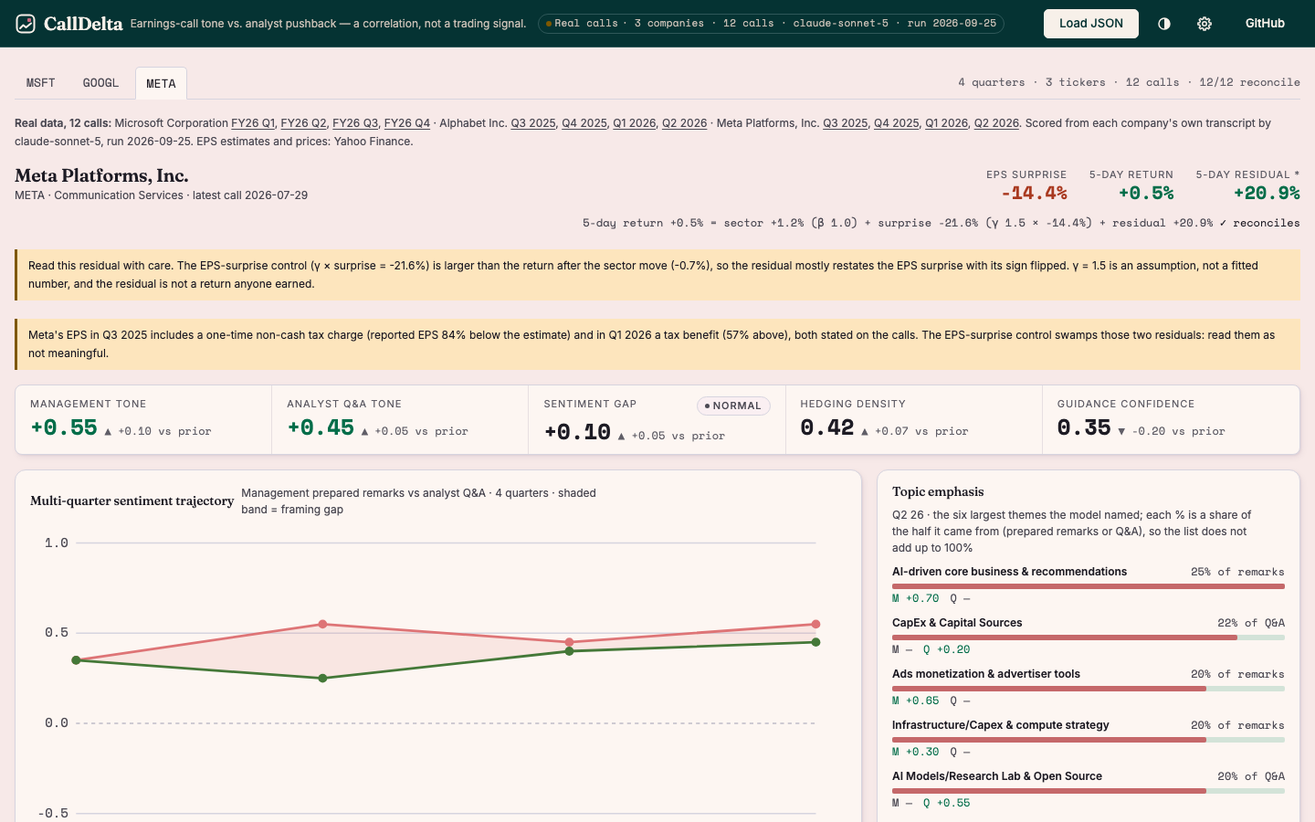
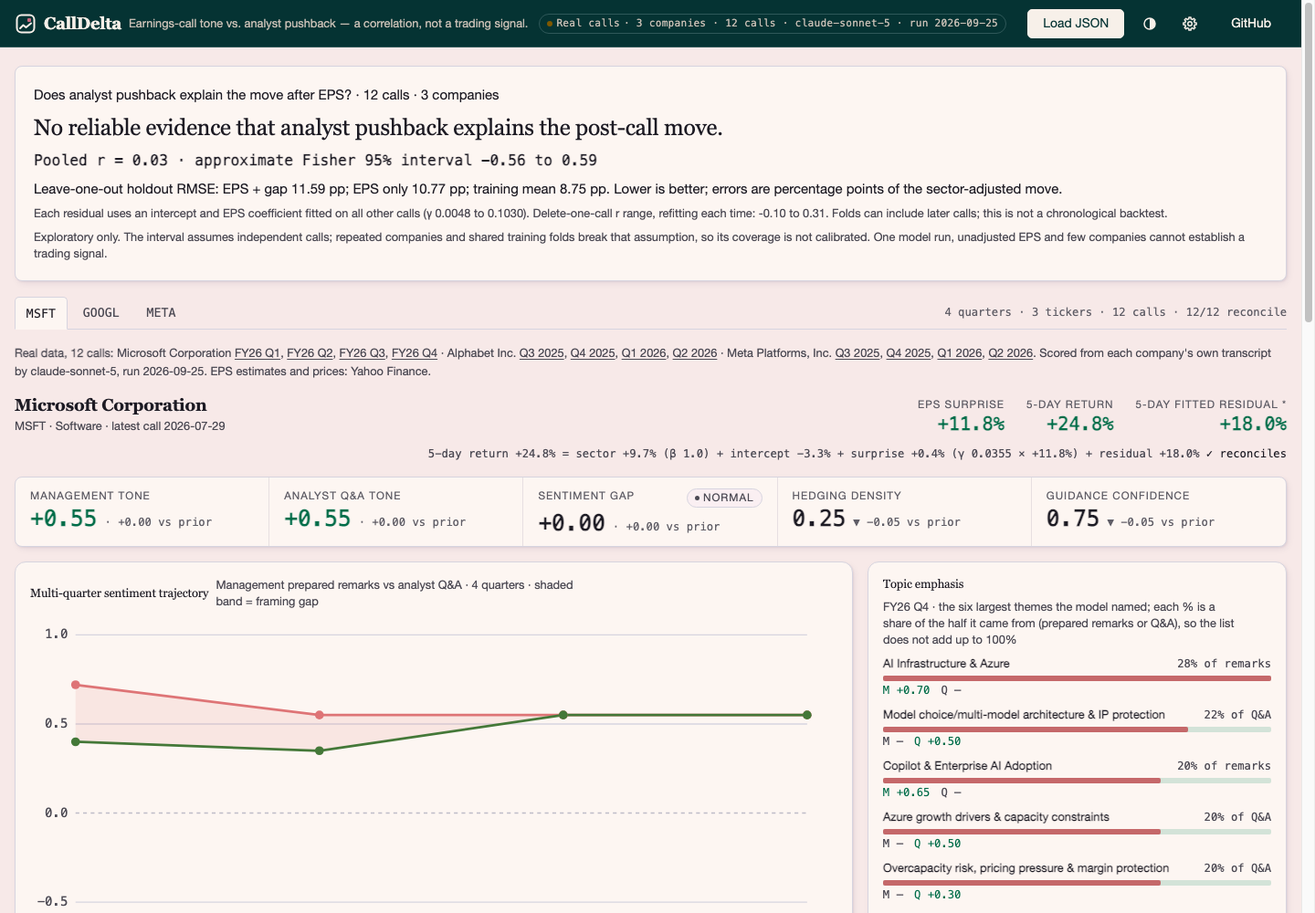
Fit the EPS control instead of a hand-picked 1.5x and lead with one honest verdict
The headline residual used a hand-picked 1.5 x EPS surprise. Each call's residual now comes from a
pooled least-squares EPS control (with an intercept) fitted on the other calls, and the first
screen states the pooled result before any company tab: on these 12 calls, r = 0.03 with an
approximate 95% interval of -0.56 to 0.59, and EPS + tone gap predicts held-out moves worse than
EPS alone or the training mean. No reliable evidence that analyst pushback explains the move.
The reconciliation shows each call's fitted terms; the impossible-residual warning stays.
Analysis checks 11/11 (seen failing first), web checks 30/30, existing suite 97 passed; an
independent NumPy calculation matches every fit, the RMSE baselines and the interval.

diff --git a/docs/app.js b/docs/app.js
@@ -4,6 +4,7 @@
 (() => {
 'use strict';
 const DEMO = window.CALLDELTA_DEMO, REAL = window.CALLDELTA_REAL, META = window.CALLDELTA_REAL_META;
+const A = window.CALLDELTA_ANALYSIS;
 const SVG_TAGS = new Set(['svg', 'rect', 'line', 'text', 'defs', 'pattern', 'path', 'g', 'title', 'circle', 'polyline', 'polygon']);
 const $ = (s, r = document) => r.querySelector(s);
 const h = (tag, attrs = {}, ...kids) => { const el = SVG_TAGS.has(tag) ? document.createElementNS('http://www.w3.org/2000/svg', tag) : document.createElement(tag); for (const [k, v] of Object.entries(attrs)) { if (v === null || v === undefined || v === false) continue; if (k === 'class') el.setAttribute('class', v); else if (k === 'html') el.innerHTML = v; else if (k.startsWith('on')) el.addEventListener(k.slice(2), v); else el.setAttribute(k, v === true ? '' : v); } for (const kid of kids.flat(Infinity)) { if (kid === null || kid === undefined || kid === false) continue; el.append(kid.nodeType ? kid : document.createTextNode(String(kid))); } return el; };
@@ -18,7 +19,7 @@ function validate(obj) { // same rules the old React dashboard applied, plus num
     for (const f of REQ_T) if (!(f in c)) return `${t}: missing field "${f}"`;
     if (!Array.isArray(c.quarters) || !c.quarters.length) return `${t}: "quarters" must be a non-empty array`;
     for (const [i, q] of c.quarters.entries()) { for (const f of REQ_Q) if (!(f in q)) return `${t} quarter ${i}: missing "${f}"`; for (const f of REQ_Q.slice(1)) if (typeof q[f] !== 'number' || !Number.isFinite(q[f])) return `${t} quarter ${i}: "${f}" must be a finite number`; if (q.mgmt < -1 || q.mgmt > 1 || q.qa < -1 || q.qa > 1) return `${t} quarter ${i}: tone must be within -1..1`;
-      if ('sector_5d' in q && (typeof q.sector_5d !== 'number' || !Number.isFinite(q.sector_5d))) return `${t} quarter ${i}: "sector_5d" must be a finite number when present`; }
+      for (const f of ['sector_5d', 'alpha', 'gamma']) if (f in q && (typeof q[f] !== 'number' || !Number.isFinite(q[f]))) return `${t} quarter ${i}: "${f}" must be a finite number when present`; }
     for (const f of ['beta', 'gamma']) if (f in c && (typeof c[f] !== 'number' || !Number.isFinite(c[f]))) return `${t}: "${f}" must be a finite number when present`;
     if (!Array.isArray(c.topics)) return `${t}: "topics" must be an array`; if (!Array.isArray(c.extracts)) return `${t}: "extracts" must be an array`;
     // every topic and extract is checked too: a topic with only a name used to pass and then broke the page while drawing
@@ -76,8 +77,8 @@ function provenance() {
 function pearson(xs, ys) { const n = xs.length; if (n < 3) return null; const mx = xs.reduce((a, b) => a + b, 0) / n, my = ys.reduce((a, b) => a + b, 0) / n; let sxy = 0, sxx = 0, syy = 0; for (let i = 0; i < n; i++) { sxy += (xs[i] - mx) * (ys[i] - my); sxx += (xs[i] - mx) ** 2; syy += (ys[i] - my) ** 2; } return sxx && syy ? sxy / Math.sqrt(sxx * syy) : null; }
 
 // The residual is the file's number; the page re-derives it from the file's own parts so a reader can check it:
-// residual = 5-day return − β × sector 5-day return − γ × EPS surprise (src/prices.py residual_return). Values are fractions;
-// a difference within 0.05 percentage points counts as reconciled. Without sector_5d, β and γ the residual is not checkable.
+// Fitted residual = 5-day return − β × sector return − α − γ × EPS surprise; old files omit α.
+// A difference within 0.05 percentage points counts as reconciled. Missing components never count as a pass.
 function recSummary(data, tickers, calls) {
   const recs = tickers.flatMap(t => data[t].quarters.map(q => reconcile(data[t], q))), checkable = recs.filter(r => r.checkable), passing = checkable.filter(r => r.ok).length;
   const text = checkable.length === 0 ? `0/${calls} checkable` : checkable.length === calls ? `${passing}/${calls} reconcile` : `${passing}/${checkable.length} reconcile · ${calls - checkable.length} not checkable`;
@@ -85,15 +86,25 @@ function recSummary(data, tickers, calls) {
 }
 function reconcile(c, q) {
   const num = v => typeof v === 'number' && Number.isFinite(v);
-  const missing = [!num(q.sector_5d) && 'sector return', !num(c.beta) && 'β', !num(c.gamma) && 'γ'].filter(Boolean);
+  const gamma = q.gamma ?? c.gamma, alpha = q.alpha ?? 0;
+  const missing = [!num(q.sector_5d) && 'sector return', !num(c.beta) && 'β', !num(gamma) && 'γ'].filter(Boolean);
   if (missing.length) return { checkable: false, missing };
-  const sectorPart = c.beta * q.sector_5d, surprisePart = c.gamma * q.eps_surprise, off = (q.ret_5d - sectorPart - surprisePart) - q.residual_5d;
-  return { checkable: true, ok: Math.abs(off) <= 0.0005, off, sectorPart, surprisePart, beta: c.beta, gamma: c.gamma };
+  const sectorPart = c.beta * q.sector_5d, surprisePart = gamma * q.eps_surprise, off = (q.ret_5d - sectorPart - alpha - surprisePart) - q.residual_5d;
+  return { checkable: true, ok: Math.abs(off) <= 0.0005, off, sectorPart, surprisePart, beta: c.beta, gamma, alpha };
 }
-// The EPS-surprise control (γ × surprise) against what it is taken from: the 5-day return after the sector move. γ is a
-// hand-picked constant, so when the control is the larger of the two the residual mostly restates the EPS surprise with
-// its sign flipped (and can pass ±100%, which no return can). The page says so wherever that is the case.
+// A fitted control can still dominate the sector-adjusted move. Warn separately for values beyond ±100%.
 function controlDominates(c, q) { const r = reconcile(c, q); return r.checkable && Math.abs(r.surprisePart) > Math.abs(q.ret_5d - r.sectorPart); }
+function analysisCard(result) {
+  const s = result.summary, f = x => x === null ? 'n/a' : x.toFixed(2), range = xs => xs ? xs.map(f).join(' to ') : 'n/a', error = x => `${(x * 100).toFixed(2)} pp`;
+  if (!s) return h('section', { class: 'card analysis', 'aria-label': 'Pooled verdict' }, h('h2', {}, 'Fitted analysis unavailable'), h('p', {}, result.reason), h('p', { class: 'hint' }, 'The panels below show the file’s original residuals, not fitted results. No verdict is inferred from them.'));
+  return h('section', { class: 'card analysis', 'aria-label': 'Pooled verdict' },
+    h('div', { class: 'lbl' }, `Does analyst pushback explain the move after EPS? · ${s.n} calls · ${s.companies} companies`),
+    h('h2', {}, A.verdict(s)),
+    h('p', { class: 'analysis-result' }, `Pooled r = ${f(s.r)} · approximate Fisher 95% interval ${range(s.ci)}`),
+    h('p', {}, `Leave-one-out holdout RMSE: EPS + gap ${s.rmse_gap === null ? 'unavailable (singular fit)' : error(s.rmse_gap)}; EPS only ${error(s.rmse_eps)}; training mean ${error(s.rmse_mean)}. Lower is better; errors are percentage points of the sector-adjusted move.`),
+    h('p', { class: 'hint' }, `Each residual uses an intercept and EPS coefficient fitted on all other calls (γ ${s.gamma_range.map(x => x.toFixed(4)).join(' to ')}). Delete-one-call r range, refitting each time: ${range(s.loo_range)}. Folds can include later calls; this is not a chronological backtest.`),
+    h('p', { class: 'hint' }, 'Exploratory only. The interval assumes independent calls; repeated companies and shared training folds break that assumption, so its coverage is not calibrated. One model run, unadjusted EPS and few companies cannot establish a trading signal.'));
+}
 // A topic's weight is its share of the half of the call it was named in: the model gives shares that add up to 1 within
 // the prepared remarks and, separately, within the Q&A (src/schema.py Topic.weight). The export lists the six largest
 // from both halves together, so the percentages on the page are not shares of the whole call and do not add up to 100%.
@@ -157,7 +168,7 @@ function roving(e) {
 }
 function renderPage() {
   const main = $('#main'); main.innerHTML = '';
-  const data = S.data, tickers = Object.keys(data); if (!data[S.ticker]) S.ticker = tickers[0];
+  const result = A.analyze(S.data), data = result.data, tickers = Object.keys(data); if (!data[S.ticker]) S.ticker = tickers[0];
   const c = data[S.ticker], qs = c.quarters, cur = qs[qs.length - 1], prev = qs[qs.length - 2] || cur;
   const calls = tickers.reduce((a, t) => a + data[t].quarters.length, 0);
   $('#pill-short').textContent = S.custom ? 'Your file' : 'Real calls';
@@ -165,17 +176,19 @@ function renderPage() {
   $('#reset').hidden = !S.custom;
   // the address always names the company on screen, so a reload or a shared link opens the same one
   if (fromHash() !== S.ticker) history.replaceState(null, '', '#' + encodeURIComponent(S.ticker));
+  main.append(analysisCard(result));
   main.append(h('div', { class: 'ticker-tabs', role: 'tablist', 'aria-label': 'Companies' }, tickers.map(t => h('button', { role: 'tab', id: 'tab-' + t, 'aria-controls': 'ticker-panel', 'aria-selected': t === S.ticker ? 'true' : 'false', onclick: () => { if (t === S.ticker) return; S.ticker = t; history.pushState(null, '', '#' + encodeURIComponent(t)); render(); } }, t)), h('span', { class: 'meta' }, `${qs.length} ${qs.length === 1 ? 'quarter' : 'quarters'} · ${tickers.length} tickers · ${calls} calls · `, recSummary(data, tickers, calls))));
   if (!S.custom) main.append(provenance());
   const panel = h('div', { id: 'ticker-panel', role: 'tabpanel', 'aria-labelledby': 'tab-' + S.ticker }); main.append(panel);
   const gap = cur.mgmt - cur.qa, gapPrev = prev.mgmt - prev.qa, rec = reconcile(c, cur);
   panel.append(h('div', { class: 'company' }, h('div', {}, h('h1', {}, c.company), h('div', { class: 'sub' }, `${S.ticker} · ${c.sector} · latest call ${cur.date || cur.label}`)),
-    h('div', { class: 'kpis' }, [['EPS surprise', cur.eps_surprise], ['5-day return', cur.ret_5d], ['5-day residual *', cur.residual_5d]].map(([l, v]) => h('div', { class: 'kpi' }, h('div', { class: 'lbl' }, l), h('div', { class: 'val ' + cls(v * 10) }, pct(v))))),
+    h('div', { class: 'kpis' }, [['EPS surprise', cur.eps_surprise], ['5-day return', cur.ret_5d], [result.summary ? '5-day fitted residual *' : 'File residual *', cur.residual_5d]].map(([l, v]) => h('div', { class: 'kpi' }, h('div', { class: 'lbl' }, l), h('div', { class: 'val ' + cls(v * 10) }, pct(v))))),
     rec.checkable
-      ? h('div', { class: 'recon', role: 'note' }, `5-day return ${pct(cur.ret_5d)} = sector ${pct(rec.sectorPart)} (β ${rec.beta.toFixed(1)}) + surprise ${pct(rec.surprisePart)} (γ ${rec.gamma.toFixed(1)} × ${pct(cur.eps_surprise)}) + residual ${pct(cur.residual_5d)} `,
+      ? h('div', { class: 'recon', role: 'note' }, `5-day return ${pct(cur.ret_5d)} = sector ${pct(rec.sectorPart)} (β ${rec.beta.toFixed(1)}) + intercept ${pct(rec.alpha)} + surprise ${pct(rec.surprisePart)} (γ ${rec.gamma.toFixed(4)} × ${pct(cur.eps_surprise)}) + residual ${pct(cur.residual_5d)} `,
           rec.ok ? h('span', { class: 'ok' }, '✓ reconciles') : h('span', { class: 'bad' }, `✗ off by ${(Math.abs(rec.off) * 100).toFixed(2)} pp`))
       : h('div', { class: 'recon unknown', role: 'note' }, `${rec.missing.join(' and ')} not in this file — residual not checkable`),
-    controlDominates(c, cur) ? h('p', { class: 'company-note', role: 'note' }, `Read this residual with care. The EPS-surprise control (γ × surprise = ${pct(rec.surprisePart)}) is larger than the return after the sector move (${pct(cur.ret_5d - rec.sectorPart)}), so the residual mostly restates the EPS surprise with its sign flipped. γ = ${rec.gamma.toFixed(1)} is an assumption, not a fitted number, and the residual is not a return anyone earned.`) : null,
+    controlDominates(c, cur) ? h('p', { class: 'company-note', role: 'note' }, `Read this residual with care. The EPS-surprise control (γ × surprise = ${pct(rec.surprisePart)}) is larger than the return after the sector move (${pct(cur.ret_5d - rec.sectorPart)}). Even a fitted control can dominate; the residual is a model leftover, not a return anyone earned.`) : null,
+    A.impossible(cur) ? h('p', { class: 'company-note', role: 'note' }, 'Residual beyond ±100%: this model leftover must not be read as an investable return. Check EPS one-offs, the fitted control and source data.') : null,
     typeof c.note === 'string' && c.note ? h('p', { class: 'company-note', role: 'note' }, c.note) : null));
   // colour may repeat what a sign already says, never stand alone for good or bad: the strip's
   // unsigned figures and these deltas carry no colour classes
@@ -194,7 +207,7 @@ function renderPage() {
   panel.append(h('div', { class: 'panels-2' },
     h('div', { class: 'chart' }, h('div', { class: 'ch-head' }, h('h2', {}, 'Sentiment gap vs residual return'), h('p', {}, `5-day post-call return after controlling for sector and EPS surprise · one point per call · Pearson r = ${r === null ? 'n/a' : r.toFixed(2)} over n = ${qs.length} calls${qs.length < 30 ? ` — far too few points for r to show a relationship; it is here to show the method, not a finding` : ' (not a trading signal)'}`)), scatter(qs), h('p', { class: 'hint', style: 'margin-top:8px' }, swamped ? `In ${swamped} of ${qs.length} ${qs.length === 1 ? 'call' : 'calls'} here the EPS-surprise control is larger than the return after the sector move, so the vertical axis mostly restates the EPS surprise with its sign flipped; a residual beyond ±100% is not a return.` : 'Quadrant of interest: wide gap and negative residual — management rosy, market unconvinced.')),
     h('div', { class: 'card' }, h('h2', {}, 'Notable extracts'), h('p', { class: 'hint', style: 'margin-bottom:12px' }, S.custom ? `${cur.label} · passages the model tagged` : `${cur.label} · passages the model tagged in the prepared remarks, word for word, 25 words at most`), c.extracts.length ? c.extracts.map(e => h('div', { class: 'extract' }, h('div', {}, h('span', { class: 'cat' }, e.tag)), h('div', {}, h('q', {}, esc(e.text)), h('div', { class: 'who' }, '— ' + esc(e.speaker))))) : h('p', { class: 'muted' }, 'No extracts in this file.'))));
-  main.append(h('div', { class: 'card' }, h('h2', {}, 'Methodology'), h('div', { class: 'method' }, h('div', {}, h('p', {}, 'Each transcript is split into prepared remarks and analyst Q&A and scored separately by the model against a fixed JSON schema, written into the prompt and validated, with one repair round (Anthropic, OpenAI, Gemini or an OpenAI-compatible server; native structured output is an option for Anthropic and OpenAI). Tone, hedging density, guidance confidence, topics and tagged passages come back as structured fields, so quarters are comparable.'), h('p', {}, '* Residual = 5-day return − β·sector-ETF return − γ·EPS surprise (β = 1, γ = 1.5 in the pipeline). Both are hand-picked constants, not fitted. The residual is a model leftover, not a return anyone earned: when the EPS surprise is large it is mostly −γ × surprise and can pass ±100%. The page marks every call where that control outweighs the return after the sector move.'), h('p', {}, 'Tags: tone is scored from −1 to +1. The headline sentiment gap (management tone − analyst Q&A tone) is tagged wide above 0.2 and normal otherwise. A topic is tagged gap when its management and Q&A tones differ by more than 0.25 either way; a topic found in only one section gets no gap tag. These cut-offs only choose the tags; no score or chart uses them.'), h('p', {}, 'The data on this page is one run of this pipeline on twelve real calls, the four most recent of each company, scored from the transcripts the companies publish themselves (', h('code', {}, 'python -m src.ir_run'), '). Analyst questions are scored as part of the Q&A section but never quoted, and no analyst is named. Load a JSON file produced by ', h('code', {}, 'python -m src.export_dashboard signals.csv'), ' to see your own run; the loader validates the shape and rejects malformed files with a specific message.')),
+  main.append(h('div', { class: 'card' }, h('h2', {}, 'Methodology'), h('div', { class: 'method' }, h('div', {}, h('p', {}, 'Each transcript is split into prepared remarks and analyst Q&A and scored separately by the model against a fixed JSON schema, written into the prompt and validated, with one repair round (Anthropic, OpenAI, Gemini or an OpenAI-compatible server; native structured output is an option for Anthropic and OpenAI). Tone, hedging density, guidance confidence, topics and tagged passages come back as structured fields, so quarters are comparable.'), h('p', {}, '* Fitted residual = 5-day return − β·sector-ETF return − α − γ·EPS surprise. The page fits pooled OLS with an intercept on the other calls, leaving the displayed call out; β stays at the file’s sector-proxy value (1 on real data). It replaces the historical pipeline’s hand-picked γ residual in memory, without changing the scored source file. The target is gap (management − analyst tone) versus this held-out residual. The holdout prediction comparison instead predicts the sector-adjusted move using EPS + gap, EPS only, or the training mean, all trained without the held-out call. No chronological prediction or causation is claimed. If inputs or EPS variation are insufficient, the page labels the original file residuals and withholds the verdict. The residual is a model leftover, not a return anyone earned; the page warns when the EPS control dominates and whenever a residual passes ±100%.'), h('p', {}, 'Tags: tone is scored from −1 to +1. The headline sentiment gap (management tone − analyst Q&A tone) is tagged wide above 0.2 and normal otherwise. A topic is tagged gap when its management and Q&A tones differ by more than 0.25 either way; a topic found in only one section gets no gap tag. These cut-offs only choose the tags; no score or chart uses them.'), h('p', {}, 'The data on this page is one run of this pipeline on twelve real calls, the four most recent of each company, scored from the transcripts the companies publish themselves (', h('code', {}, 'python -m src.ir_run'), '). Analyst questions are scored as part of the Q&A section but never quoted, and no analyst is named. Load a JSON file produced by ', h('code', {}, 'python -m src.export_dashboard signals.csv'), ' to see your own run; the loader validates the shape and rejects malformed files with a specific message.')),
     h('div', {}, h('pre', { tabindex: '0', role: 'region', 'aria-label': 'Model output schema' }, `{
   "section": "prepared" | "qa",
   "tone": -1.0..1.0,

diff --git a/docs/analysis.js b/docs/analysis.js
@@ -1,0 +1,81 @@
+/* Pure offline analysis shared by the dashboard and Node checks/report. Source data is never mutated. */
+((root) => {
+'use strict';
+const mean = xs => xs.reduce((a, b) => a + b, 0) / xs.length;
+const num = x => typeof x === 'number' && Number.isFinite(x);
+function pearson(xs, ys) {
+  if (xs.length < 3) return null;
+  const mx = mean(xs), my = mean(ys);
+  const xx = xs.reduce((s, x) => s + (x - mx) ** 2, 0), yy = ys.reduce((s, y) => s + (y - my) ** 2, 0);
+  return xx > 1e-20 && yy > 1e-20 ? Math.max(-1, Math.min(1, xs.reduce((s, x, i) => s + (x - mx) * (ys[i] - my), 0) / Math.sqrt(xx * yy))) : null;
+}
+function interval(r, n) {
+  if (r === null || n <= 3) return null;
+  if (Math.abs(r) === 1) return [r, r];
+  const z = Math.atanh(r), d = 1.959963984540054 / Math.sqrt(n - 3);
+  return [Math.tanh(z - d), Math.tanh(z + d)];
+}
+// OLS with intercept: sector-adjusted move = alpha + gamma*EPS (+ theta*gap).
+// Centered two-predictor normal equations; singular designs explicitly return null.
+function fit(rows, gap = false) {
+  const xs = rows.map(q => q.eps_surprise), ys = rows.map(q => q.ret_5d - (q.beta ?? 1) * q.sector_5d), gs = rows.map(q => q.mgmt - q.qa);
+  const mx = mean(xs), my = mean(ys), mg = mean(gs);
+  let xx = 0, xy = 0, gg = 0, gy = 0, xg = 0;
+  rows.forEach((_, i) => { const x = xs[i] - mx, y = ys[i] - my, g = gs[i] - mg; xx += x*x; xy += x*y; gg += g*g; gy += g*y; xg += x*g; });
+  if (xx <= 1e-20) return null;
+  let gamma = xy / xx, theta = 0;
+  if (gap) {
+    const det = xx * gg - xg * xg;
+    if (det <= 1e-12 * xx * gg || gg <= 1e-20) return null;
+    gamma = (xy * gg - gy * xg) / det; theta = (gy * xx - xy * xg) / det;
+  }
+  return { alpha: my - gamma * mx - theta * mg, gamma, theta };
+}
+const predict = (f, q) => f.alpha + f.gamma * q.eps_surprise + f.theta * (q.mgmt - q.qa);
+const rmse = xs => Math.sqrt(mean(xs.map(x => x*x)));
+function analyze(source, sensitivity = true) {
+  const data = JSON.parse(JSON.stringify(source));
+  const rows = Object.values(data).flatMap(c => c.quarters.map(q => ({ ...q, beta: c.beta })));
+  const unavailable = reason => ({ data, summary: null, reason });
+  if (rows.length < 4) return unavailable('At least four complete calls are needed for leave-one-out analysis.');
+  if (!rows.every(q => ['beta', 'ret_5d', 'sector_5d', 'eps_surprise', 'mgmt', 'qa'].every(k => num(q[k])))) return unavailable('Sector return, beta, EPS surprise and tone must be present for every call.');
+  const folds = rows.map((q, i) => {
+    const train = rows.filter((_, j) => i !== j), f = fit(train), full = fit(train, true);
+    if (!f) return null;
+    const y = q.ret_5d - q.beta * q.sector_5d;
+    return { ...f, residual: y - predict(f, q), meanError: y - mean(train.map(t => t.ret_5d - t.beta * t.sector_5d)), gapError: full ? y - predict(full, q) : null };
+  });
+  if (folds.some(f => !f)) return unavailable('EPS variation is insufficient in a training fold; no fitted residual is available.');
+  let i = 0;
+  for (const c of Object.values(data)) {
+    if (typeof c.note === 'string' && num(c.gamma)) c.note = `Historical source note (describes the former γ = ${c.gamma} residuals; EPS caveats still apply): ${c.note}`;
+    // No company-wide gamma: every call has a different out-of-sample fit.
+    delete c.gamma;
+    for (const q of c.quarters) {
+      const f = folds[i++]; q.gamma = f.gamma; q.alpha = f.alpha; q.residual_5d = f.residual;
+    }
+  }
+  const r = pearson(rows.map(q => q.mgmt - q.qa), folds.map(f => f.residual));
+  const summary = { n: rows.length, companies: Object.keys(data).length, r, ci: interval(r, rows.length),
+    gamma_range: [Math.min(...folds.map(f => f.gamma)), Math.max(...folds.map(f => f.gamma))],
+    rmse_mean: rmse(folds.map(f => f.meanError)), rmse_eps: rmse(folds.map(f => f.residual)),
+    rmse_gap: folds.every(f => f.gapError !== null) ? rmse(folds.map(f => f.gapError)) : null, loo_range: null };
+  if (sensitivity && rows.length > 4) {
+    const rs = [];
+    for (const [t, c] of Object.entries(source)) for (let j = 0; j < c.quarters.length; j++) {
+      const copy = JSON.parse(JSON.stringify(source)); copy[t].quarters.splice(j, 1);
+      const s = analyze(copy, false).summary; if (s && s.r !== null) rs.push(s.r);
+    }
+    if (rs.length === rows.length) summary.loo_range = [Math.min(...rs), Math.max(...rs)];
+  }
+  return { data, summary, reason: null };
+}
+function verdict(s) {
+  if (!s || !s.ci) return 'Insufficient data to assess the association.';
+  return s.ci[0] <= 0 && s.ci[1] >= 0 ? 'No reliable evidence that analyst pushback explains the post-call move.' : 'An exploratory association appears; this sample cannot establish a predictive signal.';
+}
+const impossible = q => Math.abs(q.residual_5d) > 1;
+const api = { fit, interval, analyze, verdict, impossible };
+if (typeof module !== 'undefined') module.exports = api;
+else root.CALLDELTA_ANALYSIS = api;
+})(typeof window === 'undefined' ? globalThis : window);

diff --git a/docs/index.html b/docs/index.html
@@ -36,7 +36,7 @@
 <footer class="honest">
   <dl class="honest-in">
     <div><dt>About this data</dt><dd>One run of the pipeline on the four most recent calls of three companies that publish full transcripts on their own investor-relations sites: Microsoft FY26 Q1–Q4, Alphabet and Meta Q3 2025–Q2 2026 (calls from October 2025 to July 2026). Scores by claude-sonnet-5, run 2026-09-25; EPS estimates and prices from Yahoo Finance. Quotes come only from the latest call's prepared remarks and are checked word for word against the transcript. Four quarters per company show how the scores moved, but four points are far too few to support any claim that tone predicts returns. The Sample JSON file is synthetic.</dd></div>
-    <div><dt>Not verified here</dt><dd>Whether the framing gap predicts residual returns (a few hundred calls would still be a small sample); the EPS-surprise control uses a constant γ; sector proxies are ETFs, not a factor model; loaded files are validated for shape, not for correctness.</dd></div>
+    <div><dt>Not verified here</dt><dd>Whether the framing gap predicts returns (a few hundred calls would still be a small sample). The page fits the EPS control out of sample, but folds can contain later calls. Repeated companies and shared training folds invalidate the independence assumption behind the approximate interval. Sector proxies are ETFs, not a factor model; loaded files are validated for shape, not for correctness.</dd></div>
     <div><dt>Source</dt><dd><a href="https://github.com/NickkkLian/Earnings-Call-Sentiment-Analyser" rel="noopener">github.com/NickkkLian/Earnings-Call-Sentiment-Analyser</a> · MIT · built by Nick Lian</dd></div>
   </dl>
 </footer>
@@ -44,6 +44,7 @@
 <script src="demo-data.js"></script>
 <script src="real-data.js"></script>
 <script src="appearance.js"></script>
+<script src="analysis.js"></script>
 <script src="app.js"></script>
 </body>
 </html>

diff --git a/docs/app.css b/docs/app.css
@@ -391,3 +391,7 @@ table.data th.num button{justify-content:flex-end;width:100%}
 .provenance{margin:0 0 var(--space-4);font-size:var(--text-xs);line-height:var(--leading-relaxed);color:var(--text-2);max-width:none}
 .provenance a{color:inherit}
 .company-note{flex-basis:100%;margin:var(--space-2) 0 0;padding:var(--space-2) var(--space-3);border-left:3px solid var(--warning);background:var(--warning-tint);color:var(--text);font-size:var(--text-xs);line-height:var(--leading-relaxed)}
+.analysis{margin-bottom:var(--space-4)}
+.analysis h2{margin:var(--space-2) 0;font-size:clamp(1.2rem,2.5vw,1.65rem);line-height:1.3}
+.analysis p{margin-top:var(--space-2)}
+.analysis-result{font:var(--weight-semibold) var(--text-lg)/1.5 var(--font-mono);font-variant-numeric:tabular-nums}

diff --git a/README.md b/README.md
@@ -1,8 +1,12 @@
 # CallDelta
 
-![CallDelta](.github/header.png)
-
 **Call tone vs. analyst pushback — not a trading signal.**
+
+**No reliable evidence that analyst pushback explains the post-call move after EPS.** Across the twelve scored calls, gap versus held-out EPS residual has **r = 0.03, approximate 95% interval −0.56 to +0.59**. Leave-one-out prediction RMSE: **EPS + gap 11.59 pp; EPS only 10.77 pp; training mean 8.75 pp** (lower is better). Removing one call and refitting gives r from **−0.10 to +0.31**. Reproduce these figures offline: `node docs/report-analysis.cjs`.
+
+The interval is a Fisher approximation assuming independent calls. Repeated companies and shared training folds break that assumption; its coverage is not calibrated. This is an exploratory check on three companies, not a chronological backtest or a finding.
+
+![CallDelta](.github/header.png)
 
 An earnings call has two halves: what management chose to say, and what analysts made them answer. CallDelta scores each half separately with a fixed extraction schema, tracks the *gap* between them across quarters, and sets that gap next to the price move after the call.
 
@@ -10,15 +14,15 @@ An earnings call has two halves: what management chose to say, and what analysts
 
 **What it is not.** Not a trading signal and not a finding. Twelve calls cannot show whether tone predicts returns. Three limits show up in the real run, and the page states each one where it applies:
 
-- **The "residual return" is not a return.** It subtracts 1.5 × the EPS surprise, a hand-picked constant. On 12 of the 12 calls that term is larger than the return after the sector move, so the residual mostly restates the EPS surprise with its sign flipped; three of them are −125%, −323% and +114%, which no return can be. The arithmetic is right and the page re-derives it; the constant is the weak part (see [Honest caveats](#honest-caveats)).
+- **The residual is a model leftover, not an earned return.** The analysis page replaces the historical hand-picked 1.5 × EPS control with an intercept and EPS coefficient fitted on all the other calls. It re-derives every displayed residual and keeps warnings when the EPS control dominates or a residual passes ±100%. The historical pipeline output remains intact as input; its residual column is superseded in the analysis view. See [Honest caveats](#honest-caveats).
 - **No topic was matched across the two halves.** Topics are matched by name, and on the latest call of each of the three companies none matched (18 of 18 topics belong to one half), so the topic-level gap has nothing to show on this data.
 - **One run of one model**, not checked against human labels.
 
 [![Check](https://img.shields.io/github/actions/workflow/status/NickkkLian/Earnings-Call-Sentiment-Analyser/check.yml?branch=main&label=check&style=flat-square&labelColor=2f5859)](https://github.com/NickkkLian/Earnings-Call-Sentiment-Analyser/actions/workflows/check.yml)
 
-![CallDelta dashboard on Meta's Q2 2026 call (real data): management tone +0.55, analyst tone +0.45, gap +0.10, with the page's own warning about the residual](docs/screenshot-dashboard.png)
+![CallDelta dashboard: pooled verdict and fitted EPS residual analysis on the twelve real calls](docs/screenshot-dashboard.png)
 
-The screenshot is the Meta tab ([open it](https://nickkklian.github.io/Earnings-Call-Sentiment-Analyser/#META)). The page opens on Microsoft, whose latest call scored the same tone for both halves (gap 0.00).
+The page opens on Microsoft, whose latest call scored the same tone for both halves (gap 0.00). The pooled verdict covers all companies and remains first on every tab.
 
 ## Try it
 
@@ -26,11 +30,13 @@ The screenshot is the Meta tab ([open it](https://nickkklian.github.io/Earnings-
 git clone https://github.com/NickkkLian/Earnings-Call-Sentiment-Analyser && cd Earnings-Call-Sentiment-Analyser
 python3 -m http.server --directory docs 8000     # then open http://localhost:8000 (no install, no key)
 node docs/check-web.mjs                          # the page's own checks; prints how many calls carry the residual warning
+node --test docs/analysis.test.cjs                # fitted control, holdout, uncertainty and failure cases
+node docs/report-analysis.cjs                     # reproduce the first-screen figures offline
 ```
 
 **In the browser** — open the [dashboard](https://nickkklian.github.io/Earnings-Call-Sentiment-Analyser/) (static, no server) or serve `docs/` from a clone as above. It opens on the twelve real calls above, with a link to each call's transcript page; **Load JSON** (or drag a file onto the page) replaces them with your own pipeline output, validated for shape first; **Sample JSON** (under the schema in the Methodology section) downloads a **synthetic** example file (fictional companies, invented numbers) so you can see the schema.
 
-**What the real data contains.** Scores for the prepared remarks and for the analyst Q&A, topics, EPS surprise and the 5-day returns (EPS estimates and prices from Yahoo Finance via yfinance). Quotes come only from the prepared remarks of each company's latest call: at most 25 words each, checked word for word against the transcript, a passage with an elision or a mid-sentence fragment dropped. Analyst questions are scored but never quoted, and no analyst is named. Two companies carry a caveat on the page, taken from what they said on the calls: Alphabet's EPS in Q3 2025, Q1 2026 and Q2 2026 includes unrealized gains on equity securities, and Meta's includes a one-time tax charge (Q3 2025) and a tax benefit (Q1 2026). In those quarters the EPS-surprise control swamps the residual, so those residuals are not meaningful; the page also marks every call (all twelve in this run) where that control is larger than the return after the sector move.
+**What the real data contains.** Scores for the prepared remarks and for the analyst Q&A, topics, EPS surprise and the 5-day returns (EPS estimates and prices from Yahoo Finance via yfinance). Quotes come only from the prepared remarks of each company's latest call: at most 25 words each, checked word for word against the transcript, a passage with an elision or a mid-sentence fragment dropped. Analyst questions are scored but never quoted, and no analyst is named. Two companies carry a caveat on the page, taken from what they said on the calls: Alphabet's EPS in Q3 2025, Q1 2026 and Q2 2026 includes unrealized gains on equity securities, and Meta's includes a one-time tax charge (Q3 2025) and a tax benefit (Q1 2026). Fitting the coefficient does not repair those EPS inputs. The page marks control dominance using the fitted coefficients.
 
 **Re-run it** — `data/ir-calls.json` lists each call's transcript URL and the SHA-256 of the file that was scored (Word files are read with the standard library, PDFs with `pdfminer.six`, MIT-licensed):
 
@@ -59,7 +65,7 @@ Replace the fictional tickers with real ones FMP has transcripts for (most US-li
 1. **Section-level decomposition.** Prepared remarks and Q&A are scored separately. The gap between them — how rosy management sounds vs. how sceptical analysts are — is the headline signal.
 2. **Topic-level sentiment.** Each call is broken into 4–6 themes with separate management and Q&A tone per topic; a wide gap on a topic both halves discussed shows where analysts are pushing back. Q&A-only topics (analysts raised something management did not) are surfaced on purpose. Topics are matched across the halves by name only: on the real run none matched, so every topic on the page belongs to one half, and each percentage is a share of that half, not of the whole call.
 3. **Tagged passages.** The model extracts and tags notable quotes — *confident, hedging, evasion, admission, contradiction* — not just scores.
-4. **Residual return as the target.** Sentiment is set against the 5-day return net of the sector ETF move and net of γ × the EPS surprise, not against the raw return. γ = 1.5 is a placeholder that was never fitted, and on the real run it dominates the result (see the caveats).
+4. **Out-of-sample EPS control.** `docs/analysis.js` pools the calls and fits OLS: sector-adjusted move = α + γ × EPS surprise. For each displayed residual it excludes that call, fits α and γ on the rest, then subtracts the held-out prediction. The fitted γ ranges from 0.0048 to 0.1030 across these folds; no 1.5 constant enters the new analysis. Gap is management minus Q&A tone. The separate holdout comparison predicts the sector-adjusted move using EPS + gap, EPS only, or the training mean; each model excludes the held-out call. The delete-one sensitivity check removes a call and repeats the entire fitting process. Missing sector data or a singular EPS fit withholds the verdict and explicitly labels the file's original residuals. Singular EPS + gap fits withhold that baseline comparison. The same analysis runs on loaded JSON files.
 5. **Multi-quarter trajectory.** Single-call sentiment is noise; the *change* in tone across quarters is where any signal would live.
 
 ## How it fits together
@@ -74,7 +80,7 @@ flowchart LR
   D --> G["signals.csv"]
   F --> G
   G --> H["export_dashboard.py → JSON"]
-  H --> I["docs/ dashboard<br/>static, Load JSON"]
+  H --> I["docs/analysis.js<br/>pooled leave-one-out EPS fit → verdict → static dashboard"]
   J["tests/ · src/eval.py · docs/check-web.mjs"] -. verify .-> B
   J -. verify .-> F
   J -. verify .-> H
@@ -97,11 +103,14 @@ python -m pytest -q
 python -m src.eval
 python -m src.eval --break
 node docs/check-web.mjs
+node --test docs/analysis.test.cjs
+node docs/report-analysis.cjs
 ```
 
 - `tests/` covers the transcript splitter (every operator phrasing the regex claims to recognise, the no-marker case, first match wins, an opening announcement of a later Q&A is not the hand-off), the quote filter for published data (prepared remarks only, 25 words, word for word, no elisions), the residual-return arithmetic and trading-day windows on a fixed synthetic series, and the dashboard export (topic merging across sections, Q&A-only topics, NaN rows dropped rather than zeroed). No network access.
 - `src/eval.py` scores the extraction step on `eval/passages.json`: 30 synthetic passages (six per tag) and 10 synthetic guidance snippets. It runs through the project's own analyzer — same prompt, same schema — and records the model name and date in `eval/llm-cache.json`. The cache now holds the 2026-09-25 run with `claude-sonnet-5`, the default at the time (the default is now `claude-sonnet-5-5`, not yet scored on this set): **30/30 passages and 10/10 guidance snippets** (six right out of six for each of confident, hedging, evasion, admission and contradiction). The earlier 2026-09-22 run with `claude-haiku-4-5-20251001` had the same score; its cache is in the git history. Without the cache it reports **NOT RUN** (exit code 2) rather than a made-up number. `--break` is the negative control: a cached tag outside the schema must be refused. This is a small evaluation set, not a formal evaluation pipeline — and `eval/llm-cache.json` is the whole of what that run left behind: it records the model name and date, nothing here shows a request went over the network, and a hand-written cache would be indistinguishable from it.
 - `docs/check-web.mjs` asserts the dashboard loads no external scripts, that the demo and the real data pass the loader's own validation, that every real transcript source is the company's own investor-relations site and every real quote is at most 25 words, that the page opens on the real data, that mutated files are rejected with specific messages, and that the correlation helper is right.
+- `docs/analysis.test.cjs` checks fitted coefficients against exact synthetic arithmetic, exclusion of the held-out outcome, prediction baselines, interval endpoints, full refits for delete-one sensitivity, missing/degenerate inputs and the impossible-residual warning. The historical Python pipeline and scored files are unchanged; analysis consumes their raw EPS, sector returns and tone fields.
 
 CI runs all of the above on every push (Python 3.10 and 3.13; the eval score only once the cache exists).
 
@@ -158,7 +167,8 @@ Transcripts and LLM responses are cached under `./cache/`. The LLM cache key is 
 
 - **Sample size.** The real run is twelve calls, four per company. That shows the method runs end to end; it cannot show a relationship. Every correlation on the page is an illustration of the method.
 - **Lookahead bias.** The pipeline anchors all returns to the actual call date. Don't be cute with intraday data.
-- **The EPS-surprise control is a placeholder, and it dominates.** `γ = 1.5` was picked by hand and never fitted. On the real run γ × surprise is larger than the sector-adjusted return on 12 of 12 calls, so the residual is mostly −1.5 × the EPS surprise. Where reported EPS carries one-off items (Alphabet's unrealized gains, Meta's tax items) the surprise is 57% to 214% in size and the residual comes out at −125%, −323%, +114% and −95%. This is not an arithmetic or units error (every value is a fraction, and the page re-derives each residual from its parts); the constant is wrong for this use. Fitting γ, or measuring the surprise on adjusted EPS, needs many more calls than this run has, so it is stated here and on the page instead of patched.
+- **A fitted coefficient does not fix the sample or the EPS measure.** The page replaces the historical `γ = 1.5` placeholder with leave-one-out fits, including an intercept. The original source files and Python pipeline still retain the historical formula for reproducibility; their `residual_5d` is not the fitted analysis. Reported EPS still includes one-off equity gains and tax items. A coefficient fitted on the other calls can be unstable, and folds contain future calls: this is out-of-sample by call, not a historical trading simulation. Residuals remain model leftovers and must never be read as earned returns. The page retains both the control-dominance warning and a separate warning for residuals beyond ±100%.
+- **Uncertainty is approximate.** The first-screen Fisher interval assumes independent observations. Calls repeat three companies and leave-one-out residuals share training data, so the interval is descriptive rather than calibrated inference. The delete-one range measures single-call sensitivity, not a confidence interval. A larger, company-diverse sample and time-based holdouts are needed before a predictive claim.
 - **Sector proxy is crude.** One sector ETF per ticker (IGV, XLC, SOXX, …) with β fixed at 1; a factor model would be the proper control.
 - **Topics are matched by name.** A topic counts as discussed in both halves only when one name contains the other. The model names topics freely, so on the real run nothing matched. Matching by meaning is not built.
 
@@ -183,6 +193,9 @@ tests/                 splitter · residuals · export
 eval/passages.json     30 tagged passages + 10 guidance snippets (synthetic)
 data/ir-calls.json     the calls in the real run: company transcript URLs and SHA-256
 docs/                  the dashboard (GitHub Pages root) · real-data.js · demo-data.js (Sample JSON) · check-web.mjs
+  analysis.js          shared pure analysis: fitted EPS control, holdout comparison, interval, sensitivity
+  report-analysis.cjs  offline reproduction of verdict figures and historical token-cost projection
+  analysis.test.cjs    exact fixtures, exclusion checks, degeneracy and warning checks
 DOCS.md                design notes and module-by-module developer guide
 ```
 

diff --git a/DOCS.md b/DOCS.md
@@ -248,7 +248,7 @@ The interesting line:
 residual = ret_5d − β·sector_5d − γ·eps_surprise
 ```
 
-with `β=1.0`, `γ=1.5` as placeholders. Tuning these is a natural extension.
+with `β=1.0`, `γ=1.5` in the historical pipeline output, retained for reproducibility. The dashboard's analysis layer (`docs/analysis.js`) supersedes that residual: pooled OLS with an intercept, fitted separately for each held-out call, computes `ret_5d − β·sector_5d − α − γ·eps_surprise`. It also reports pooled gap correlation, an explicitly approximate Fisher interval, leave-one-out prediction errors versus EPS-only and mean baselines, and delete-one sensitivity with complete refits. `node docs/report-analysis.cjs` reproduces the figures offline; `node --test docs/analysis.test.cjs` checks the arithmetic and failure cases. The scored source files and extraction pipeline are unchanged.
 
 `SECTOR_PROXY` maps tickers to sector ETFs. Falls back to SPY for unknown
 tickers. This is a crude control; a fitted multi-factor model would be the
@@ -456,9 +456,7 @@ return a `Transcript` dataclass; everything else stays put.
 
 ### Tune the residual return formula
 
-In `src/prices.py`, `compute_reaction` takes `beta` and `gamma` parameters.
-Once you have ~30 calls per ticker, you can fit these per-ticker via OLS
-on (ret, sector_ret, surprise) and replace the constants.
+The page now fits the EPS coefficient out of sample using pooled calls (see above). `src/prices.py` still produces the historical placeholder column, which the analysis view replaces in memory. A larger sample with adjusted EPS, company-diverse evaluation and time-based holdouts is needed before making predictive claims; the current folds may include later calls.
 
 ### Run more quarters efficiently
 
@@ -501,8 +499,7 @@ upfront about:
 - **Lookahead-bias risk.** All returns are anchored to the actual call date.
   But: pre-market vs post-market reporting matters, and we treat them
   identically. For banks (often pre-market) this is a real distortion.
-- **EPS-surprise control is rough.** A constant `gamma=1.5` is a rule of
-  thumb. The real coefficient varies by ticker, sector, and regime.
+- **EPS-surprise control is rough.** The analysis replaces historical `gamma=1.5` with held-out fits, but a small pooled sample and one-off EPS items still limit it. Repeated companies and shared training folds violate the independence assumption behind the descriptive Fisher interval; coverage is not calibrated.
 - **Sector proxy is crude.** SOXX/XLC/XLY/etc. are loose. A proper Fama-French
   or Barra factor model would be better for serious work.
 - **LLM extraction is not infallible.** Tone scores from an LLM are
